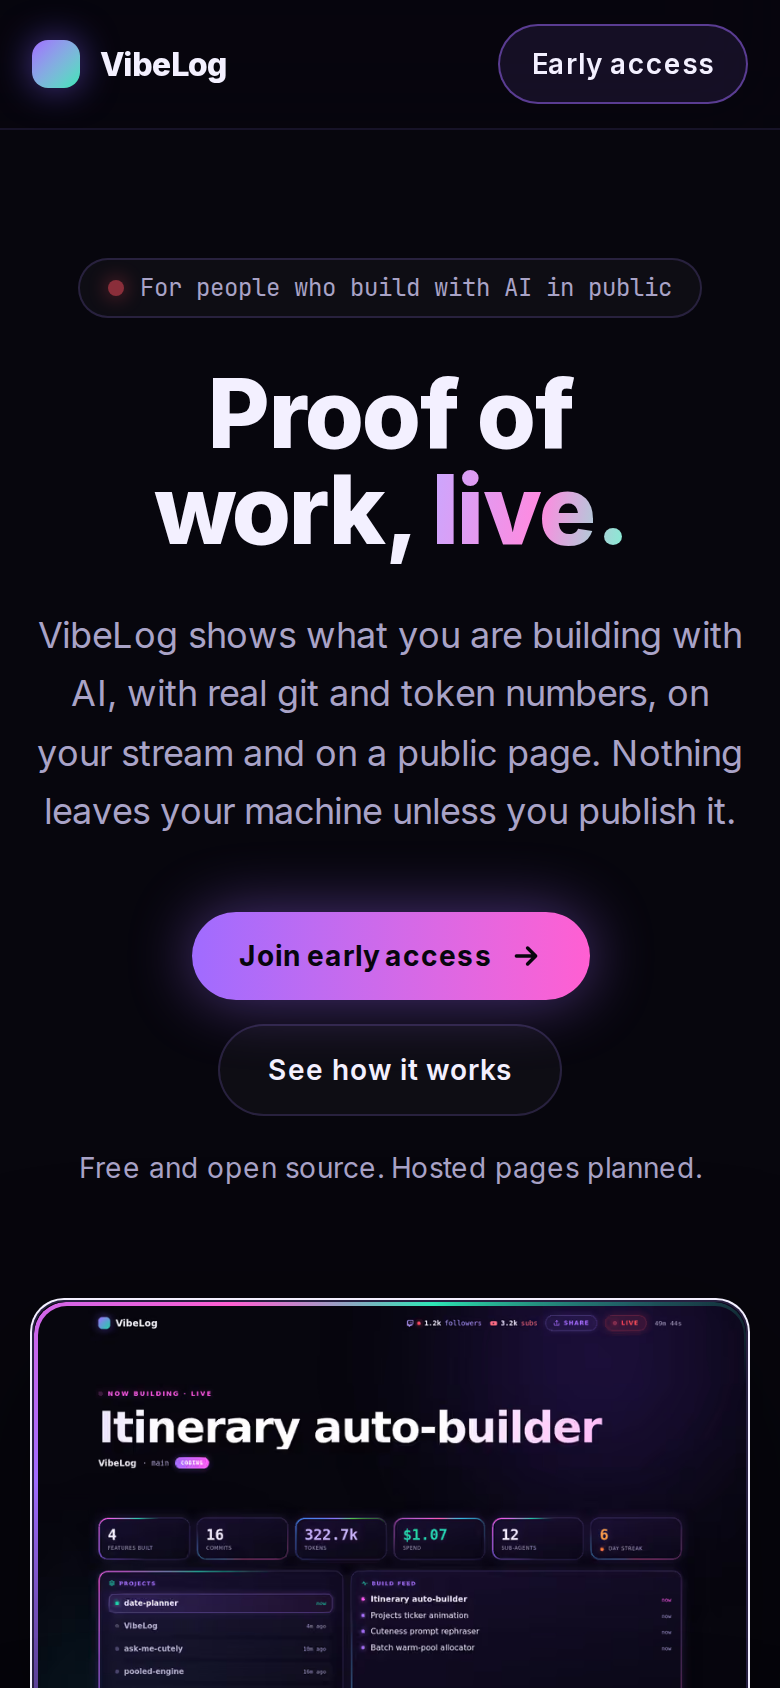
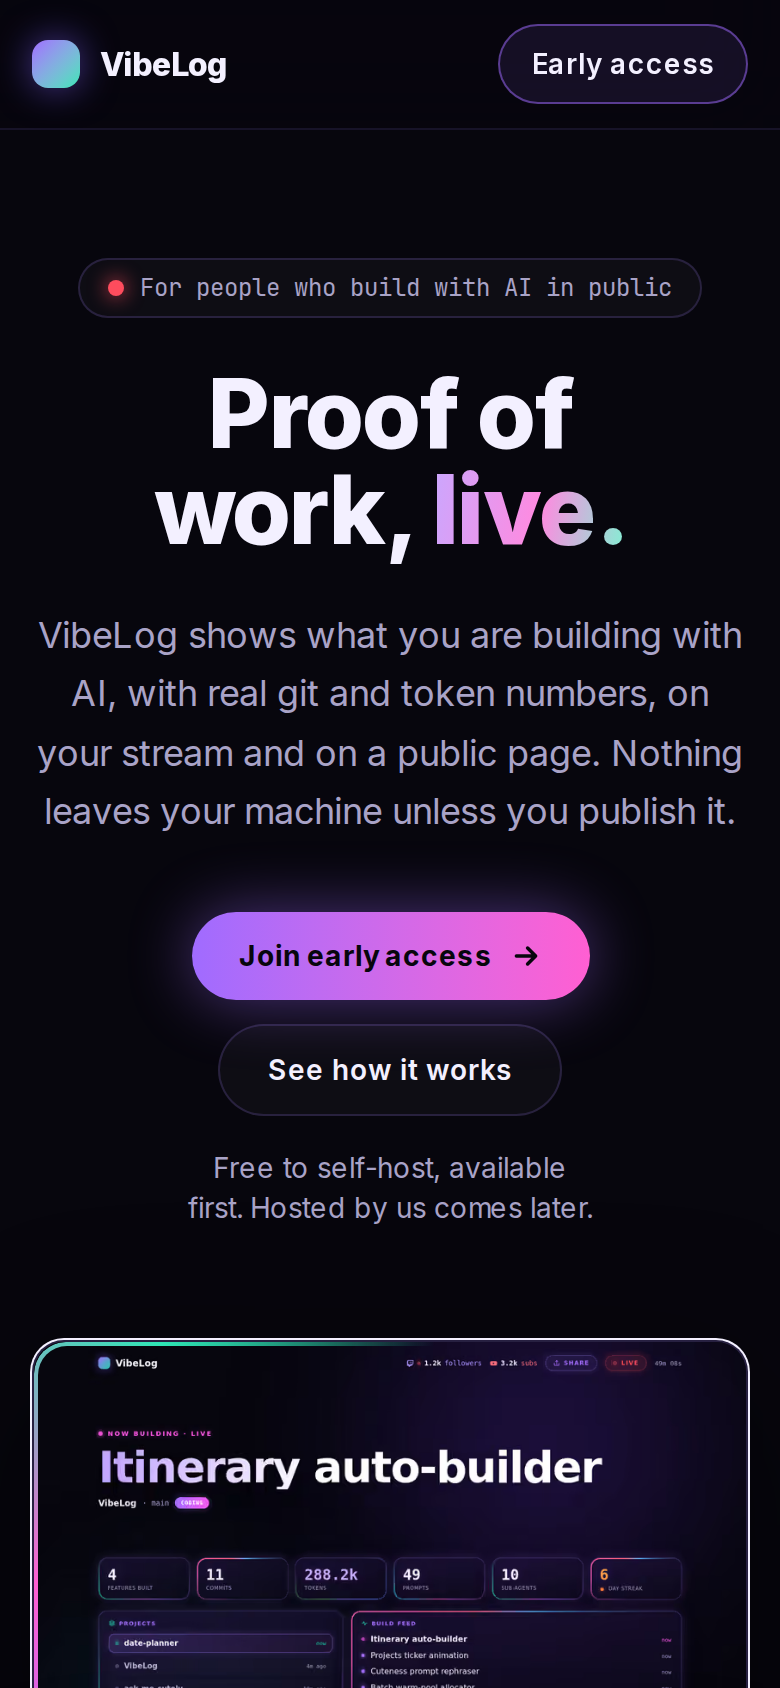
feat(landing): two paths, vibelogs.dev and private spend FAQ
- pricing shows "Self-host" (free, available first) and "Hosted by us"
  ($6/month, planned, 14-day trial) side by side; no hosted free tier
- canonical URL, sitemap and robots move to https://vibelogs.dev
- FAQ: spend is hidden on public surfaces by default, and how
  self-hosting differs from hosted
- all five early-access CTAs link to the n8builds.dev upcoming waitlist
- hero /live shot retaken with spend hidden; landing screenshots updated

diff --git a/landing/app/page.tsx b/landing/app/page.tsx
@@ -46,8 +46,12 @@ function SectionHeading({ eyebrow, title, intro, id }: { eyebrow: string; title:
   );
 }
 
-function PlannedBadge() {
-  return (
+function StatusBadge({ status }: { status: "first" | "planned" }) {
+  return status === "first" ? (
+    <span className="inline-flex items-center rounded-full border border-accent/50 bg-accent/15 px-2.5 py-0.5 font-mono text-[11px] font-semibold tracking-wider text-ink uppercase">
+      Available first
+    </span>
+  ) : (
     <span className="inline-flex items-center rounded-full border border-teal/40 bg-teal/10 px-2.5 py-0.5 font-mono text-[11px] font-semibold tracking-wider text-teal uppercase">
       Planned
     </span>
@@ -162,33 +166,39 @@ const comparison: { label: string; vibelog: Cell; wakatime: Cell; overlays: Cell
   { label: "Runs fully on your machine", vibelog: "yes", wakatime: "no", overlays: "no", trackers: "yes" },
 ];
 
-const tiers = [
+const paths = [
   {
-    name: "Open source",
-    price: "$0",
-    period: "forever",
-    blurb: "The whole local product, on your machine.",
-    items: ["Agent, HUD, dashboard and recaps", "Themes and profile", "/live, /share and embed from your machine", "Self-host your public page on your own Cloudflare account"],
+    name: "Self-host",
+    price: "Free",
+    period: "open source",
+    status: "first" as const,
+    blurb: "Run everything yourself, on your machine and your own Cloudflare account.",
+    items: [
+      "Agent, OBS HUD, dashboard and recaps",
+      "Themes and profile",
+      "/live, /share and the embed widget from your machine",
+      "Your public page on your own free Cloudflare Worker",
+      "No account, no telemetry",
+    ],
     cta: "Get notified at release",
-    featured: false,
-  },
-  {
-    name: "Hosted free",
-    price: "$0",
-    period: "hosted, planned",
-    blurb: "A public page that stays up when your laptop is off.",
-    items: ["Your page at a VibeLog handle", "30 days of public history", "Publish every few minutes while live", "Small “powered by VibeLog” badge"],
-    cta: "Join early access",
-    featured: false,
-  },
-  {
-    name: "Pro",
-    price: "$6",
-    period: "per month, planned",
-    blurb: "For people who treat their build log as a portfolio.",
-    items: ["Custom domain with SSL", "Full public history", "Near real-time updates while live", "No badge, premium themes"],
-    cta: "Join early access",
     featured: true,
+  },
+  {
+    name: "Hosted by us",
+    price: "$6",
+    period: "per month",
+    status: "planned" as const,
+    blurb: "We run the public page, so it stays up when your laptop is off.",
+    items: [
+      "Everything in self-host, nothing to deploy",
+      "Your page at a VibeLog handle, always on",
+      "Custom domain with SSL",
+      "Full public history and near real-time updates",
+      "Hosted share-card images and link unfurls",
+      "14-day free trial",
+    ],
+    cta: "Join the hosted waitlist",
+    featured: false,
   },
 ];
 
@@ -200,6 +210,14 @@ const faqs = [
   {
     q: "Does anything leave my machine?",
     a: "Not by default. The overlay and dashboard are served from localhost. If you choose to publish, the agent sends a small snapshot with your public profile fields, numbers and theme, never prompts, file paths, diffs or keys.",
+  },
+  {
+    q: "Will viewers see how much I spend on AI?",
+    a: "Not unless you want them to. Dollar spend is hidden by default on every public surface: the /live page, share cards, the embed widget and anything you publish. Token counts stay visible. Your private dashboard and your local HUD still show spend, and one setting (in the dashboard, or vibe privacy cost show) turns it back on publicly.",
+  },
+  {
+    q: "What is the difference between self-hosting and hosted?",
+    a: "Self-hosting is free and comes first: you run the agent and, if you want an always-on page, deploy it to your own Cloudflare account. Hosted by us is a planned paid plan for people who would rather not deploy anything; we keep the page up, add a custom domain and keep the full history.",
   },
   {
     q: "Which AI tools does it track?",
@@ -313,13 +331,13 @@ export default function Home() {
               <WaitlistButton />
               <GhostButton href="#how">See how it works</GhostButton>
             </div>
-            <p className="mt-4 text-sm text-muted">Free and open source. Hosted pages planned.</p>
+            <p className="mt-4 text-sm text-balance text-muted">Free to self-host, available first. Hosted by us comes later.</p>
           </div>
 
           <div className="relative mx-auto mt-14 max-w-5xl md:pb-24">
             <Shot
               src="/shots/live.png"
-              alt="The VibeLog public live page with the headline Itinerary auto-builder, stat tiles for features, commits, tokens, spend, sub-agents and streak, a projects list and a build feed"
+              alt="The VibeLog public live page with a now-building headline, stat tiles for features, commits, tokens, prompts, sub-agents and streak, a projects list and a build feed"
               width={1440}
               height={900}
               priority
@@ -388,7 +406,7 @@ export default function Home() {
                 <h3 className="mb-3 text-lg font-bold">Public /live page</h3>
                 <Shot
                   src="/shots/live.png"
-                  alt="The VibeLog public live page with the headline Itinerary auto-builder, stat tiles for features, commits, tokens, spend, sub-agents and streak, a projects list and a build feed"
+                  alt="The VibeLog public live page with a now-building headline, stat tiles for features, commits, tokens, prompts, sub-agents and streak, a projects list and a build feed"
                   width={1440}
                   height={900}
                   sizes="(min-width: 1024px) 560px, 100vw"
@@ -557,18 +575,18 @@ export default function Home() {
             <SectionHeading
               id="pricing-title"
               eyebrow="Pricing"
-              title="Free to run. Pay only for hosting."
-              intro="Hosted tiers are planned and not yet available. Prices may change before launch."
+              title="Self-host free. Or let us host it."
+              intro="Two paths, same product. Self-hosting is free, open source and comes first. The hosted plan is planned, not yet available, and its price may change before launch."
             />
-            <div className="mt-14 grid gap-5 lg:grid-cols-3">
-              {tiers.map((t) => (
+            <div className="mx-auto mt-14 grid max-w-4xl gap-5 md:grid-cols-2">
+              {paths.map((t) => (
                 <div
                   key={t.name}
                   className={`flex flex-col rounded-2xl border p-7 ${t.featured ? "ring border-accent/50 bg-accent/[0.07]" : "border-line bg-panel"}`}
                 >
                   <div className="flex items-center justify-between gap-3">
                     <h3 className="text-lg font-bold">{t.name}</h3>
-                    {t.period.endsWith("planned") ? <PlannedBadge /> : null}
+                    <StatusBadge status={t.status} />
                   </div>
                   <p className="mt-4 flex items-baseline gap-2">
                     <span className="text-4xl font-extrabold tracking-tight">{t.price}</span>
@@ -626,7 +644,7 @@ export default function Home() {
               Let people watch you <span className="text-gradient">ship.</span>
             </h2>
             <p className="mx-auto mt-4 max-w-xl text-muted">
-              Get the open-source release and a spot in the hosted beta. One email when it is ready, no spam.
+              Hear first when the self-host release ships, and get a spot in the hosted beta. One email when it is ready, no spam.
             </p>
             <div className="mt-8 flex justify-center">
               <WaitlistButton />

diff --git a/landing/app/site.ts b/landing/app/site.ts
@@ -1,5 +1,5 @@
-/** Planned public home of VibeLog (see docs/PRODUCT.md, name check). */
-export const SITE_URL = "https://vibelog.n8builds.dev";
+/** Canonical home of VibeLog. The owner owns vibelogs.dev (decided 2026-11-01, see docs/PRODUCT.md). */
+export const SITE_URL = "https://vibelogs.dev";
 
 /** Every early-access CTA goes to the shared n8builds.dev upcoming page. */
 export const WAITLIST_URL = "https://n8builds.dev/upcoming?interest=vibelog#vibelog";
